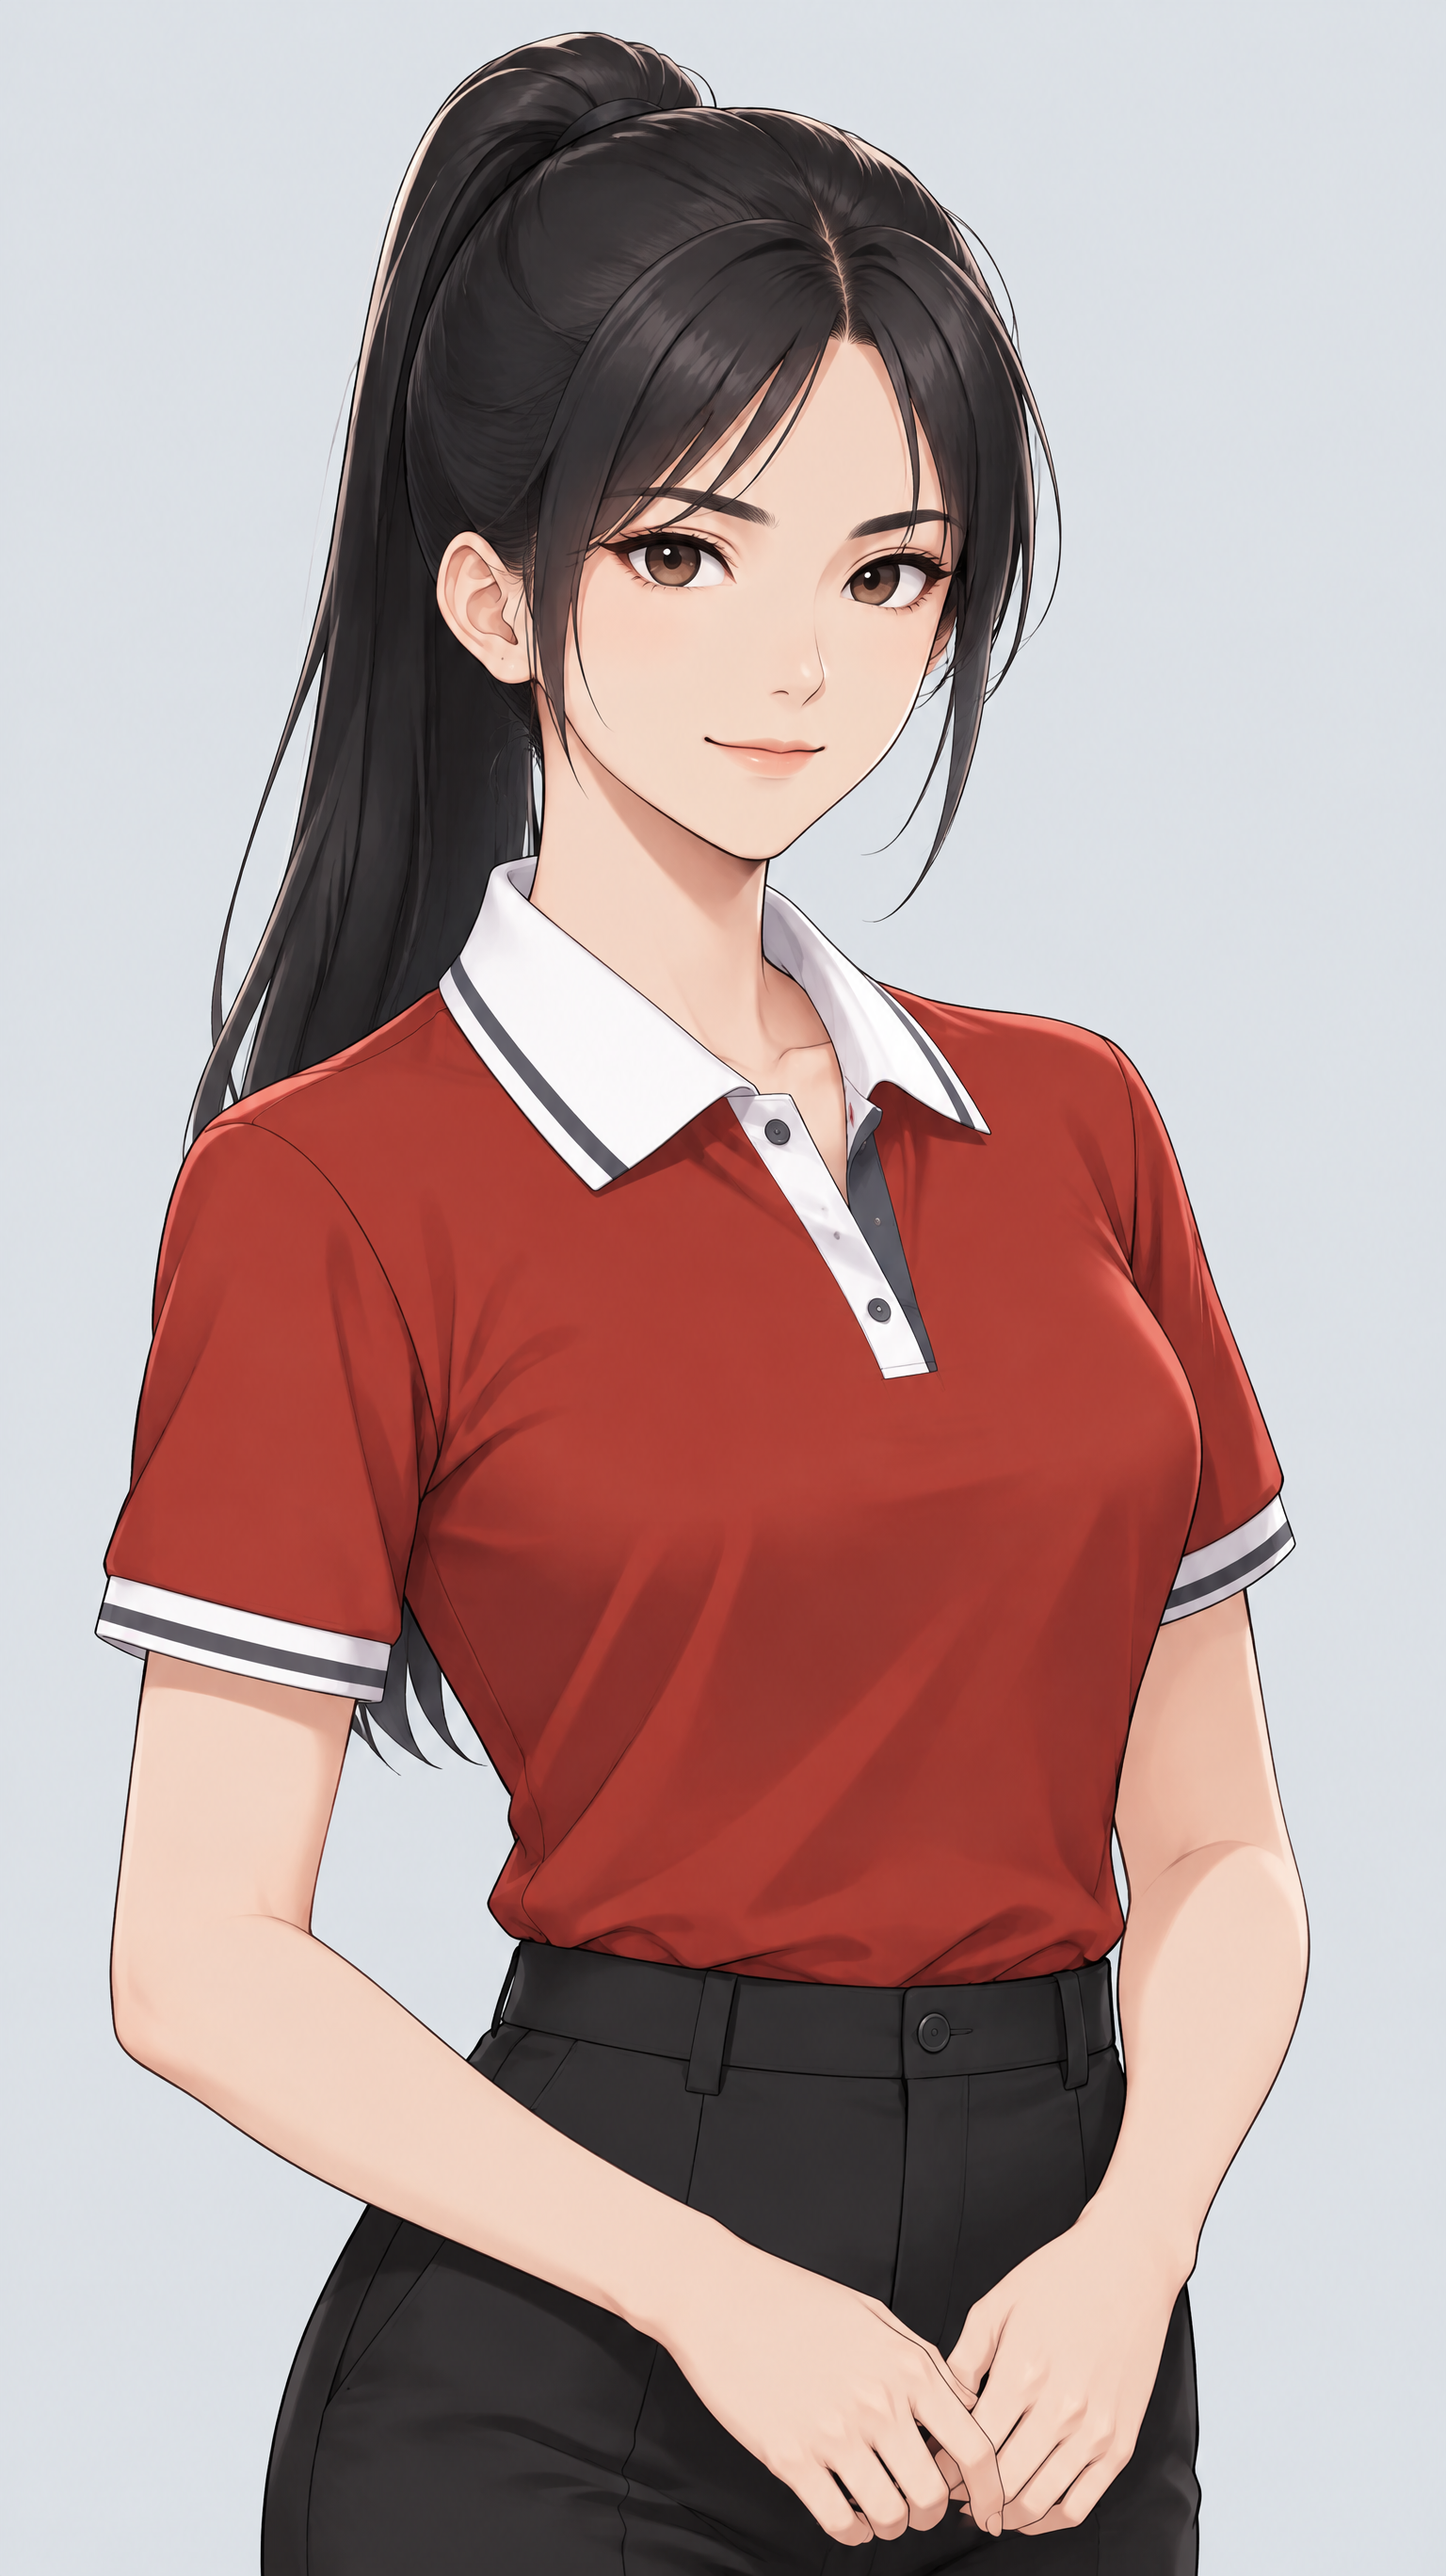
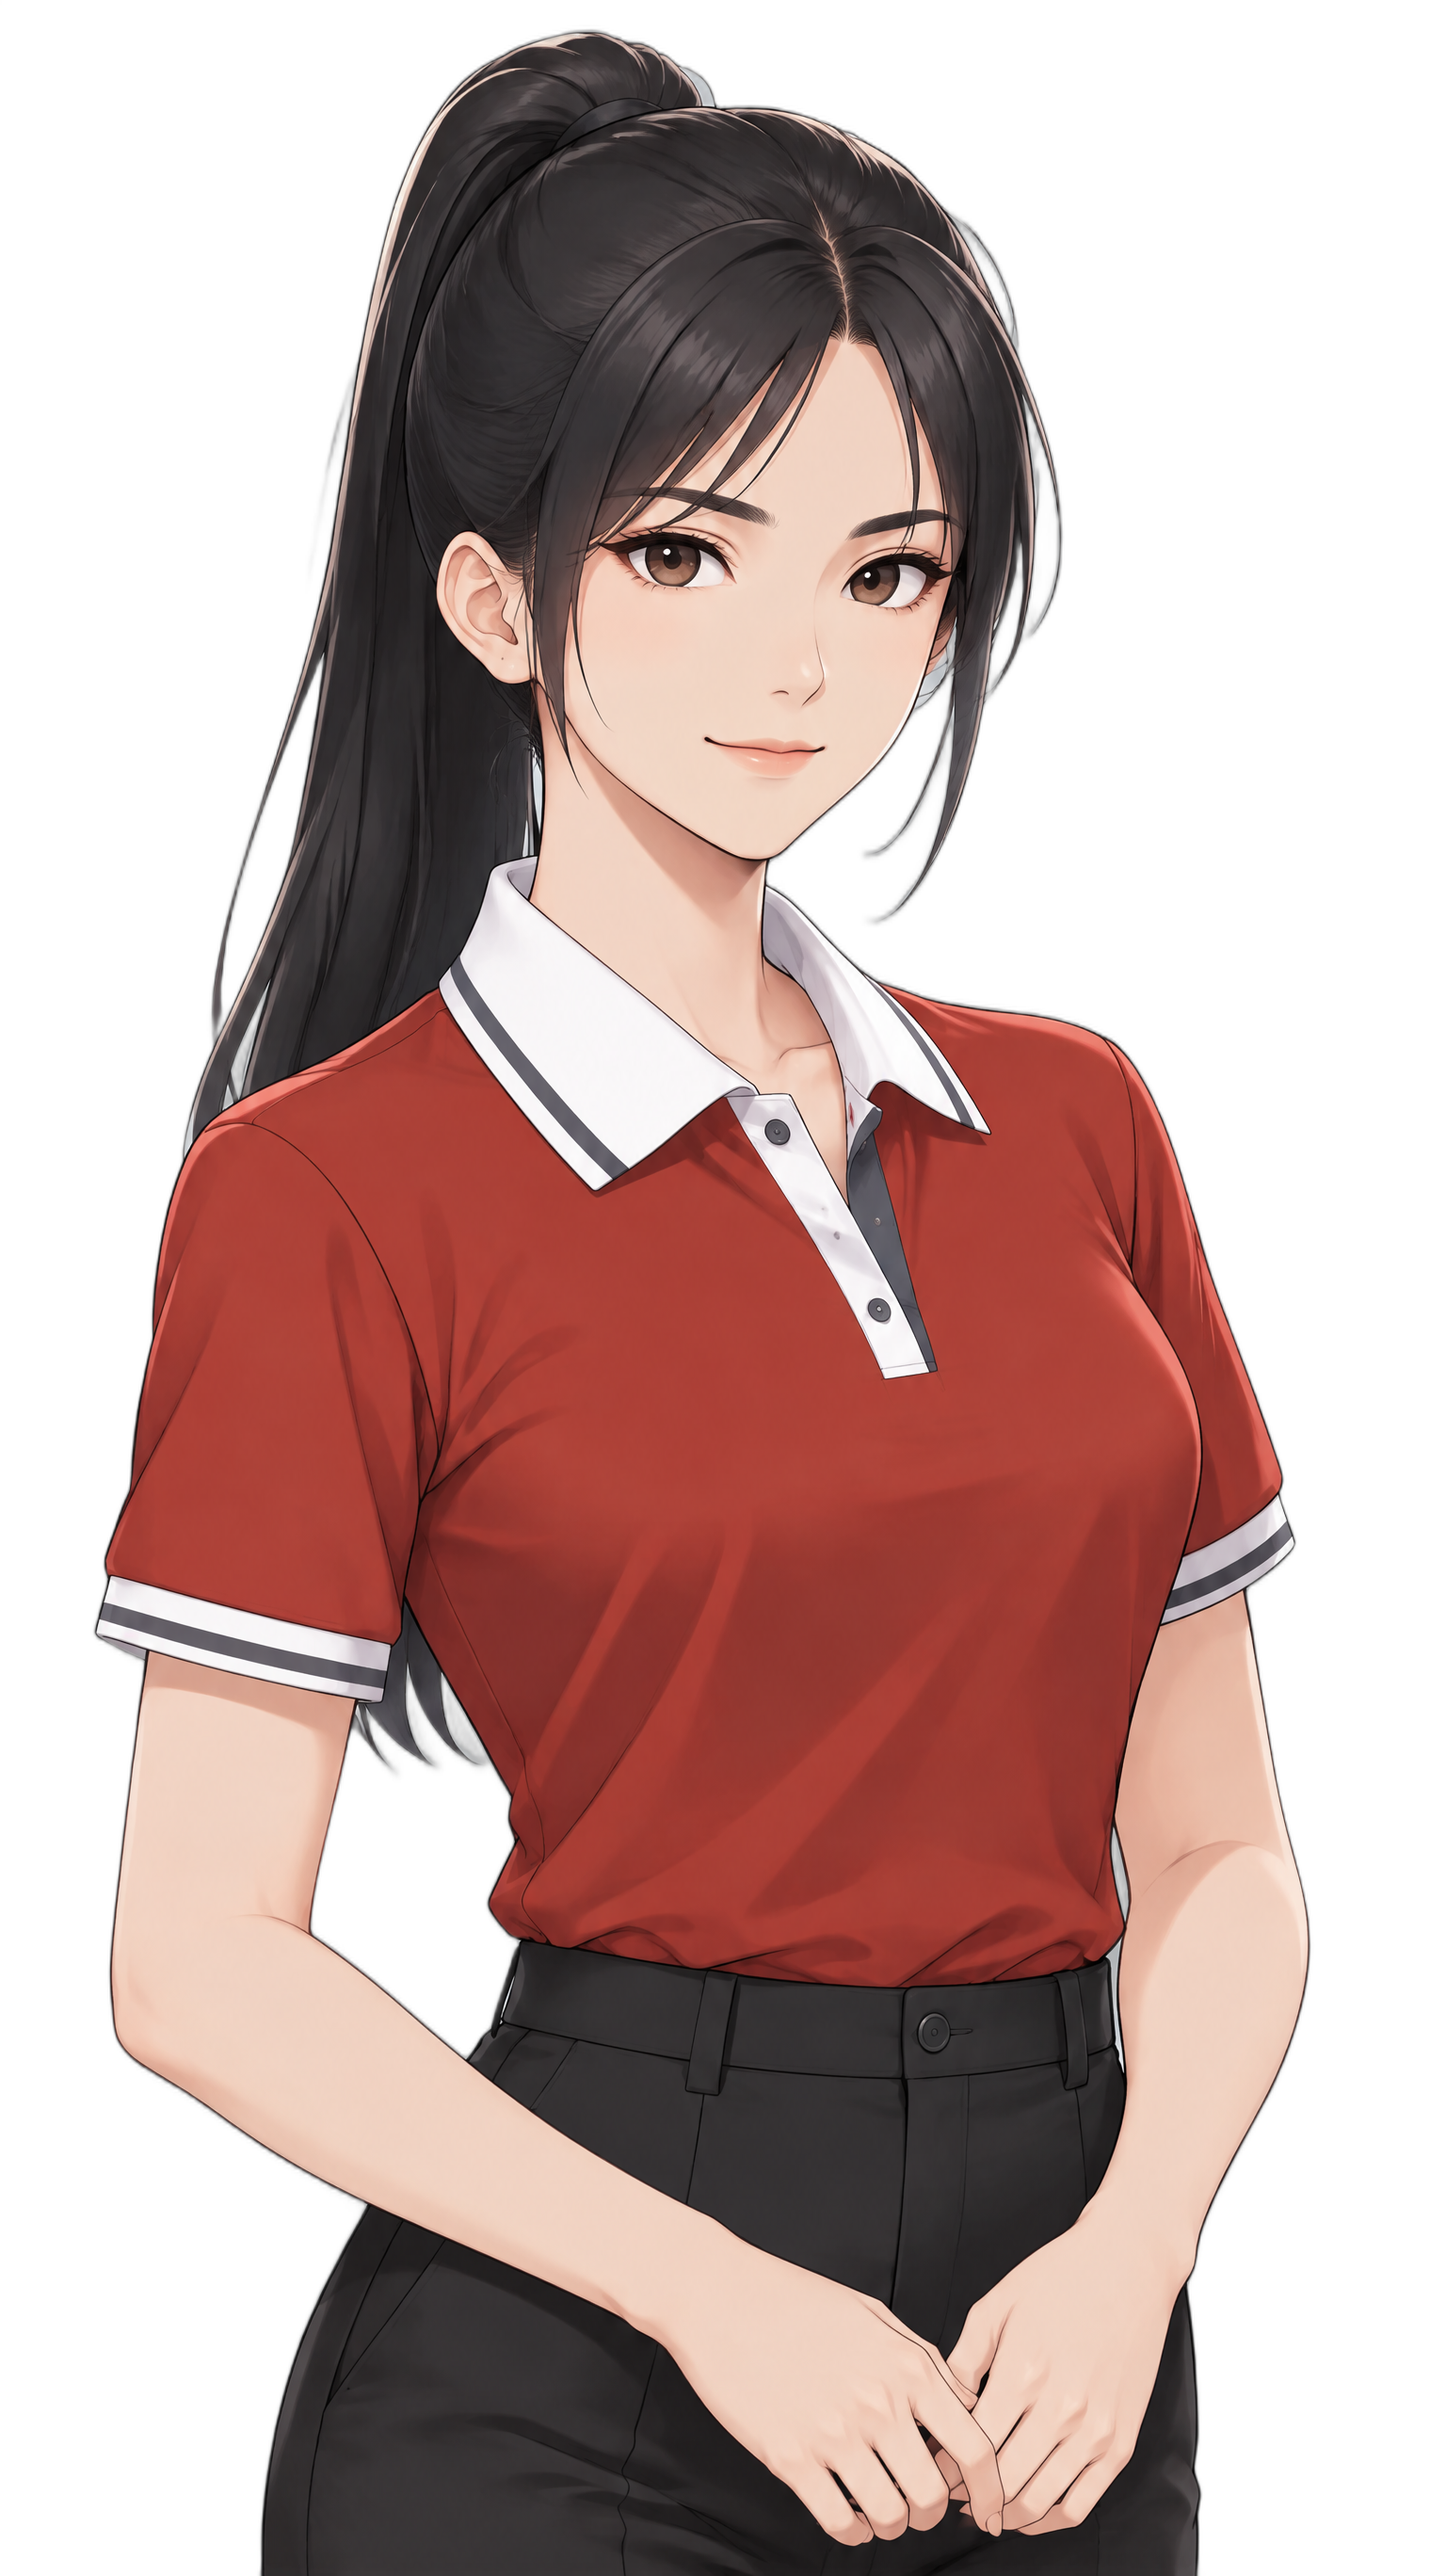
Thay bộ ảnh mới: chân dung tách nền rembg + biểu cảm 'chỉ thay đầu', 3 nền MVP, bác Tư cùng cỡ
- 14 chân dung: tách nền rembg isnet-anime (hết viền trắng ở tóc); 8 ảnh biểu cảm ghép mặt
  vào thân ảnh neo (màu áo, dáng không lệch nữa); Hà Vy 'đang nghĩ' sinh lại mặt (bỏ trợn mắt),
  gỡ bộ nhép môi cũ không còn khớp.
- Nền: phòng CLB (có máy của CLB), hành lang = sảnh tòa B + hộp kiến nghị, phòng giải trình =
  phòng họp rà soát; đo lại khung màn chiếu.
- Bác Tư không còn cỡ 'small' (user: bác bảo vệ bé hơn 2 bạn còn lại).
- art/mvp-vu1/: 16 nền, 14 vật, 6 nhân vật mới, 4 giấy cho MVP.

diff --git a/prototype/src/shared/ui/visuals/talk-rigs.ts b/prototype/src/shared/ui/visuals/talk-rigs.ts
@@ -6,6 +6,7 @@
  * Nguồn (Topview 28/09, GPT Image 2.5, image-edit từ chính ảnh chân dung): ảnh biểu cảm sửa từ ảnh
  * neo rồi căn về đúng khung ảnh neo (đổi biểu cảm thân người không xê dịch); ảnh "miệng mở"/"mắt
  * nhắm" sửa từ ảnh biểu cảm, căn khớp + khớp màu, miếng = vùng khác biệt làm mềm mép.
+ * Hà Vy "đang nghĩ" (sinh lại mặt 28/09, ghép vào ảnh neo) chưa có bộ miếng → không nhép môi.
  * Quân sững sờ: ảnh gốc miệng đang há, miếng miệng là miệng KHÉP (nhép vẫn là đổi qua lại).
  * Tệp được sinh bằng công cụ cắt miếng — sửa tay thì giữ đúng tọa độ.
  */
@@ -19,8 +20,6 @@ import minhAnhHappyMouth from './talk/minh-anh-happy/mouth.webp';
 import minhAnhHappyEyes from './talk/minh-anh-happy/eyes.webp';
 import haVyNeutralMouth from './talk/ha-vy-neutral/mouth.webp';
 import haVyNeutralEyes from './talk/ha-vy-neutral/eyes.webp';
-import haVyThinkingMouth from './talk/ha-vy-thinking/mouth.webp';
-import haVyThinkingEyes from './talk/ha-vy-thinking/eyes.webp';
 import haVySmileMouth from './talk/ha-vy-smile/mouth.webp';
 import haVySmileEyes from './talk/ha-vy-smile/eyes.webp';
 import quanNeutralMouth from './talk/quan-neutral/mouth.webp';
@@ -83,13 +82,6 @@ const RIGS: readonly TalkRig[] = [
     height: 1360,
     mouth: { src: haVyNeutralMouth, x: 342, y: 367, w: 133, h: 103 },
     eyes: { src: haVyNeutralEyes, x: 296, y: 271, w: 239, h: 119 },
-  },
-  {
-    sourceFile: '/src/assets/characters/char-ha-vy-thinking.png',
-    width: 768,
-    height: 1360,
-    mouth: { src: haVyThinkingMouth, x: 344, y: 356, w: 135, h: 120 },
-    eyes: { src: haVyThinkingEyes, x: 299, y: 261, w: 236, h: 119 },
   },
   {
     sourceFile: '/src/assets/characters/char-ha-vy-smile.png',

diff --git a/prototype/src/shared/ui/visuals/scene-geometry.ts b/prototype/src/shared/ui/visuals/scene-geometry.ts
@@ -22,11 +22,11 @@ export interface ScreenFrame {
 export const HEARING_ROOM_SCREEN: ScreenFrame = { x0: 0.09, y0: 0.1, x1: 0.91, y1: 0.72 };
 
 /**
- * Khung màn chiếu trong ẢNH THẬT `bg-prototype-hearing-room` (đo trên ảnh Topview 1360×768 ngày
- * 27/09). Màn chiếu trong ảnh nhỏ (~35% ngang) nên `projectorInsets` nới khung giao diện ra quanh
+ * Khung màn chiếu trong ẢNH THẬT `bg-prototype-hearing-room` (đo trên ảnh Topview 1360×768 — phòng họp
+ * rà soát MVP, 28/09; màn chiếu lệch phải so với tâm ảnh). Màn chiếu trong ảnh nhỏ (~35% ngang) nên `projectorInsets` nới khung giao diện ra quanh
  * tâm màn chiếu. `HEARING_ROOM_SCREEN` ở trên vẫn là khung của hình vẽ tạm (SVG).
  */
-export const HEARING_ROOM_IMAGE_SCREEN: ScreenFrame = { x0: 0.322, y0: 0.198, x1: 0.676, y1: 0.465 };
+export const HEARING_ROOM_IMAGE_SCREEN: ScreenFrame = { x0: 0.455, y0: 0.162, x1: 0.707, y1: 0.385 };
 
 /**
  * Khung tối thiểu để đọc được SQL + bảng (màn chiếu trong ảnh nhỏ hơn thì nới ra). Màn ≤ 1100 px:

diff --git a/prototype/src/shared/ui/Stage.tsx b/prototype/src/shared/ui/Stage.tsx
@@ -85,12 +85,12 @@ export function Stage({ scene, part, sequenceId, speaker, expression, children }
           return (
             <div
               key={m.character}
-              className={`cast-member${speaking ? ' cast-member--speaking' : ' cast-member--idle'}${m.character === 'bac-tu' ? ' cast-member--small' : ''}${isRight ? ' cast-member--side-right' : ' cast-member--side-left'}`}
+              className={`cast-member${speaking ? ' cast-member--speaking' : ' cast-member--idle'}${isRight ? ' cast-member--side-right' : ' cast-member--side-left'}`}
               style={style}
               data-speaking={speaking ? 'true' : 'false'}
               data-side={isRight ? 'right' : 'left'}
             >
-              <Portrait character={m.character} expression={m.expression} size={m.character === 'bac-tu' ? 'small' : 'normal'} talking={speaking && lineTyping} />
+              <Portrait character={m.character} expression={m.expression} size="normal" talking={speaking && lineTyping} />
             </div>
           );
         })}

diff --git a/prototype/src/shared/ui/visuals/portraits.test.tsx b/prototype/src/shared/ui/visuals/portraits.test.tsx
@@ -57,7 +57,10 @@ describe('dàn nhân vật trên sân khấu', () => {
 
     rerender(<Stage scene="corridor-b" speaker="bac-tu" expression="neutral" />);
     expect(members()).toHaveLength(1);
-    expect(container.querySelector('.cast-member--small figure')?.getAttribute('aria-label')).toBe('Bác Tư, bình thường');
+    expect(container.querySelector('.cast-member--speaking figure')?.getAttribute('aria-label')).toBe('Bác Tư, bình thường');
+    // Bác Tư cùng cỡ với nhân vật khác (user 28/09: "bác bảo vệ đang bé hơn 2 bạn còn lại").
+    expect(container.querySelector('.cast-member--small')).toBeNull();
+    expect(container.querySelector('.portrait--small')).toBeNull();
   });
 
   it('nextCast trả lại chính trạng thái cũ khi không có gì đổi; lời không ghi biểu cảm giữ biểu cảm cũ', () => {

diff --git a/prototype/src/styles/app.css b/prototype/src/styles/app.css
@@ -773,9 +773,6 @@
     opacity 0.2s ease,
     transform 0.25s cubic-bezier(0.16, 1, 0.3, 1);
 }
-.cast-member--small {
-  top: 130px;
-}
 .cast-member--speaking {
   z-index: 2;
   transform: translateX(-50%) scale(1.02);

diff --git a/art/mvp-vu1/README.md b/art/mvp-vu1/README.md
@@ -1,0 +1,18 @@
+# Ảnh MVP Vụ 1 (sinh 28/09)
+
+Nguồn: Topview, GPT Image 2.5 Flare, 1K, medium, chế độ Unlimited. Câu lệnh nguyên văn: `../prompts/mvp-vu1-hang-doi-2026-09-28.json`; kế hoạch: `../prompts/prompts-mvp-vu1-v0.1.md`.
+
+Chưa nối vào game (runtime MVP chưa có). Game prototype hiện chỉ dùng 3 ảnh nền lấy từ bộ này (đã chép vào `prototype/src/assets/art/`):
+
+| Ô trong game | Lấy từ |
+|---|---|
+| `bg-prototype-club-room` | `nen/bg-mvp-phong-clb` |
+| `bg-prototype-hallway` | `nen/bg-mvp-sanh-toa-b` + ghép `vat/obj-hop-kien-nghi` lên tường trái |
+| `bg-prototype-hearing-room` | `nen/bg-mvp-phong-hop` (khung màn chiếu đo lại trong `scene-geometry.ts`) |
+
+- `nen/`: 11 nền ngày + 5 nền tối (`*-dem`), WebP.
+- `vat/`: 14 vật tương tác, đã tách nền hồng tím (khóa màu + khử viền), cắt sát vật, WebP có kênh alpha. Băng dính trong suốt ở `obj-thong-bao-hop`, `obj-lich-cat-nuoc` còn ánh tím nhẹ.
+- `nhan-vat/`: 6 nhân vật mới (Duy, chú Cường, cô Hạnh, cô Lan, Hiếu, Đạt), đã tách nền, giữ khung 768×1360 như các chân dung khác.
+- `giay/`: 4 nền giấy tài liệu (chưa dùng: giấy có sẵn dòng kẻ giả, sẽ đè lên chữ thật của màn xem tài liệu).
+
+Chân dung đang dùng trong game (`prototype/src/assets/characters/`) được tách nền bằng rembg `isnet-anime`; 8 ảnh biểu cảm là "chỉ thay đầu": thân và màu áo của ảnh neo, vùng mặt của ảnh biểu cảm (xem `../prompts/prompts-mvp-vu1-v0.1.md` mục 6).
